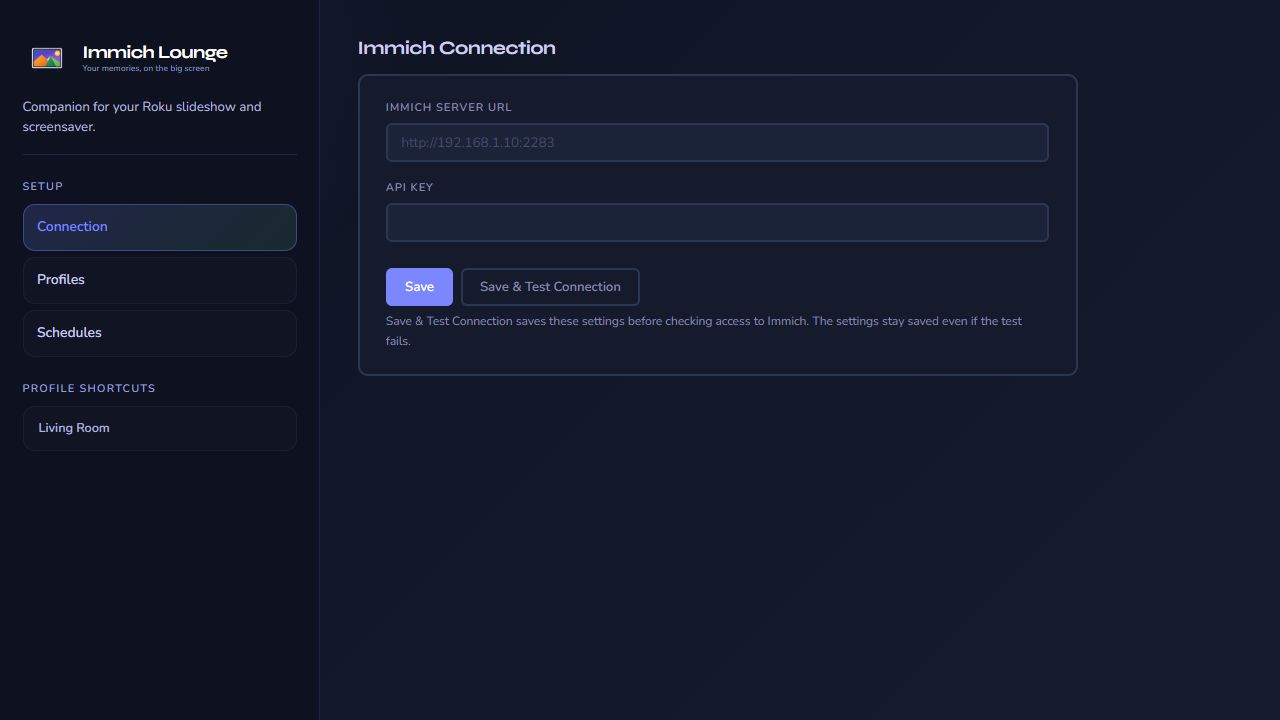
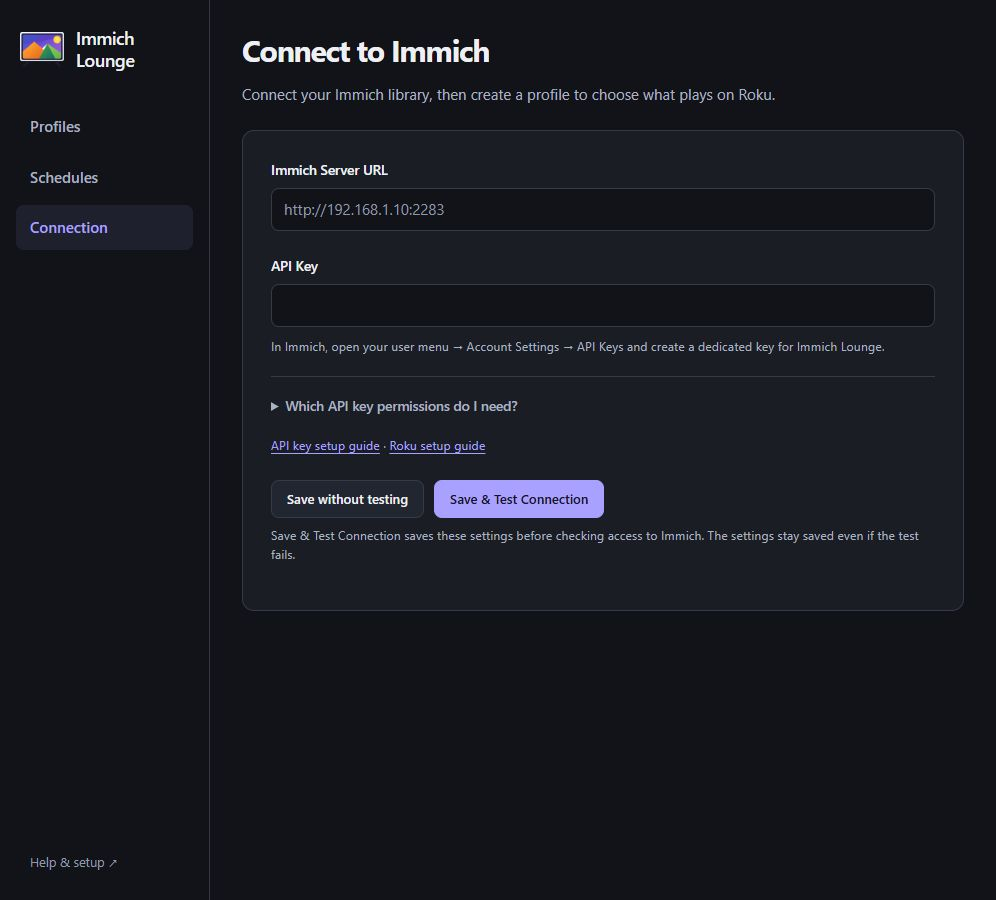
Deploying to master from @ immich-lounge/immich-lounge@921bcee9dd86f267c667c76fdb3ddbfbeb988aba 🚀

diff --git a/companion-app/index.html b/companion-app/index.html
@@ -1265,7 +1265,7 @@
 <li>replace the API key</li>
 <li>save the entered settings and verify access with <strong>Save &amp; Test Connection</strong></li>
 </ul>
-<p><strong>Save</strong> stores the settings without testing. <strong>Save &amp; Test Connection</strong> stores them first, then checks access to Immich. A failed test does not undo the saved settings.</p>
+<p><strong>Save without testing</strong> stores the settings without testing. <strong>Save &amp; Test Connection</strong> stores them first, then checks access to Immich. A failed test does not undo the saved settings.</p>
 <p>If you need to generate or rotate the key, see <a href=".././api-key/">Immich API Key</a>.</p>
 <p>The page includes key creation instructions and an expandable permission list. After a successful connection test, follow <strong>Next: create or choose a profile</strong>.</p>
 <p><a class="glightbox" data-title="Immich Lounge companion connection page" data-type="image" href=".././assets/screenshots/companion-connection.png"><img alt="Immich Lounge companion connection page" class="doc-screenshot on-glb" src=".././assets/screenshots/companion-connection.png" /></a></p>
@@ -1288,7 +1288,11 @@
 
 <h2 id="profile-editor">Profile editor<a class="headerlink" href="#profile-editor" title="Permanent link">&para;</a></h2>
 <p>Each profile controls both what the Roku shows and how playback should feel.</p>
-<p>The summary at the top shows the selected sources, photo interval, shuffle setting, and image quality. <strong>Content Sources</strong> and <strong>Slideshow</strong> stay open; expand <strong>Location</strong>, <strong>Media</strong>, <strong>Overlay &amp; Clock</strong>, <strong>Date &amp; Time</strong>, or <strong>Weather</strong> when needed. These sections keep their existing settings when collapsed.</p>
+<p>Use <strong>Photos</strong> to choose your library content, <strong>Playback</strong> to set the pace and fit, and <strong>Appearance</strong> to choose the background and on-screen information. Only one view is shown at a time. Switching views keeps your unsaved changes.</p>
+<p>Memories and less-used settings sit in expandable options within each view. Choose <strong>Albums</strong>, <strong>People</strong>, <strong>Tags</strong>, or <strong>Location</strong> at the same level. Tabs only change which controls are visible; selections in every category remain active. The <strong>Showing</strong> summary lists the combined selection and any location or exclusions. <strong>Any selection</strong> combines albums, people, and tags; <strong>Every selection</strong> requires all of them to match. Location narrows all selected sources and memories; filled country, state, and city fields must all match. Source matching, exclusions, and file size are under <strong>Filters</strong>. Memories and their time zone are under <strong>Memories</strong>. Refresh timing and transition duration are under <strong>More playback options</strong>. Weather and custom date formats are under <strong>Appearance</strong>.</p>
+<p>Choose <strong>Preview selection</strong> to see the matching count and up to six sample photos without saving. Changing photo criteria clears the old preview. If a thumbnail cannot load, the count remains available.</p>
+<p>Profiles with advanced API-defined rules keep those rules; source matching controls are available only for editable album, people, and tag selections.</p>
+<p>The save bar shows whether changes are pending. Choose <strong>Save changes</strong> to keep them, or <strong>Close</strong> to return to Profiles. If you keep editing while a save is pending, the editor stays open and keeps the newer edits marked as unsaved. Save again to keep those edits. Leaving with unsaved changes requires confirmation. If the companion restarts and your session expires, choose <strong>Reload page</strong> in the recovery dialog; unsaved edits may be lost.</p>
 <p>You can edit display settings before connecting Immich. Follow <strong>Configure connection</strong> to enable source selection and match previews. If sources cannot load, check the connection and use the picker’s retry button; the rest of the editor remains usable.</p>
 <table>
 <thead>
@@ -1299,21 +1303,21 @@
 </thead>
 <tbody>
 <tr>
-<td>Content</td>
-<td>Albums, people, tags, memories, and optional date filters</td>
+<td>Photos</td>
+<td>Albums, people, tags, memories, location, and file filters</td>
 </tr>
 <tr>
 <td>Playback</td>
 <td>Interval, shuffle, transitions, photo motion, and refresh timing</td>
 </tr>
 <tr>
-<td>Display</td>
-<td>Overlay style, fields, background effects, date formatting, weather, and image quality</td>
+<td>Appearance</td>
+<td>Photo details, backgrounds, clock, date formatting, weather, and image quality</td>
 </tr>
 </tbody>
 </table>
 <p><a class="glightbox" data-title="Immich Lounge companion profile editor" data-type="image" href=".././assets/screenshots/companion-profile-editor.png"><img alt="Immich Lounge companion profile editor" class="doc-screenshot on-glb" src=".././assets/screenshots/companion-profile-editor.png" /></a></p>
-<p class="doc-caption">The profile editor combines content selection, playback settings, and visual tuning in one place.</p>
+<p class="doc-caption">The profile editor separates photos, playback, and appearance into focused views.</p>
 
 <h2 id="schedules-page">Schedules page<a class="headerlink" href="#schedules-page" title="Permanent link">&para;</a></h2>
 <p>Schedules choose which profile plays at different times; profiles still hold the photos and display settings.</p>
@@ -1336,7 +1340,7 @@
 </ul>
 <h2 id="what-the-companion-does-not-do">What the companion does not do<a class="headerlink" href="#what-the-companion-does-not-do" title="Permanent link">&para;</a></h2>
 <ul>
-<li>it does not proxy image delivery</li>
+<li>Roku fetches slideshow images directly from Immich; the companion only fetches small samples when you preview a selection</li>
 <li>it does not store the API key inside the profile JSON files on disk</li>
 <li>it does not control Roku-side cache clearing or profile switching directly</li>
 </ul>

diff --git a/companion-app/index.md b/companion-app/index.md
@@ -14,7 +14,7 @@ Use it when you need to:
 - replace the API key
 - save the entered settings and verify access with **Save &amp; Test Connection**
 
-**Save** stores the settings without testing. **Save &amp; Test Connection** stores them first, then checks access to Immich. A failed test does not undo the saved settings.
+**Save without testing** stores the settings without testing. **Save &amp; Test Connection** stores them first, then checks access to Immich. A failed test does not undo the saved settings.
 
 If you need to generate or rotate the key, see [Immich API Key](<https://immich-lounge.github.io/api-key/index.md>).
 
@@ -45,17 +45,25 @@ Profiles are where most day-to-day tuning happens after setup is complete.
 
 Each profile controls both what the Roku shows and how playback should feel.
 
-The summary at the top shows the selected sources, photo interval, shuffle setting, and image quality. **Content Sources** and **Slideshow** stay open; expand **Location**, **Media**, **Overlay &amp; Clock**, **Date &amp; Time**, or **Weather** when needed. These sections keep their existing settings when collapsed.
+Use **Photos** to choose your library content, **Playback** to set the pace and fit, and **Appearance** to choose the background and on-screen information. Only one view is shown at a time. Switching views keeps your unsaved changes.
+
+Memories and less-used settings sit in expandable options within each view. Choose **Albums**, **People**, **Tags**, or **Location** at the same level. Tabs only change which controls are visible; selections in every category remain active. The **Showing** summary lists the combined selection and any location or exclusions. **Any selection** combines albums, people, and tags; **Every selection** requires all of them to match. Location narrows all selected sources and memories; filled country, state, and city fields must all match. Source matching, exclusions, and file size are under **Filters**. Memories and their time zone are under **Memories**. Refresh timing and transition duration are under **More playback options**. Weather and custom date formats are under **Appearance**.
+
+Choose **Preview selection** to see the matching count and up to six sample photos without saving. Changing photo criteria clears the old preview. If a thumbnail cannot load, the count remains available.
+
+Profiles with advanced API-defined rules keep those rules; source matching controls are available only for editable album, people, and tag selections.
+
+The save bar shows whether changes are pending. Choose **Save changes** to keep them, or **Close** to return to Profiles. If you keep editing while a save is pending, the editor stays open and keeps the newer edits marked as unsaved. Save again to keep those edits. Leaving with unsaved changes requires confirmation. If the companion restarts and your session expires, choose **Reload page** in the recovery dialog; unsaved edits may be lost.
 
 You can edit display settings before connecting Immich. Follow **Configure connection** to enable source selection and match previews. If sources cannot load, check the connection and use the picker’s retry button; the rest of the editor remains usable.
 
 | Area | What you manage there |
 | --- | --- |
-| Content | Albums, people, tags, memories, and optional date filters |
+| Photos | Albums, people, tags, memories, location, and file filters |
 | Playback | Interval, shuffle, transitions, photo motion, and refresh timing |
-| Display | Overlay style, fields, background effects, date formatting, weather, and image quality |
+| Appearance | Photo details, backgrounds, clock, date formatting, weather, and image quality |
 
-The profile editor combines content selection, playback settings, and visual tuning in one place.
+The profile editor separates photos, playback, and appearance into focused views.
 
 ## Schedules page
 
@@ -83,7 +91,7 @@ For time-zone, fallback, and offline behavior, see [Schedules](<https://immich-l
 
 ## What the companion does not do
 
-- it does not proxy image delivery
+- Roku fetches slideshow images directly from Immich; the companion only fetches small samples when you preview a selection
 - it does not store the API key inside the profile JSON files on disk
 - it does not control Roku-side cache clearing or profile switching directly
 
